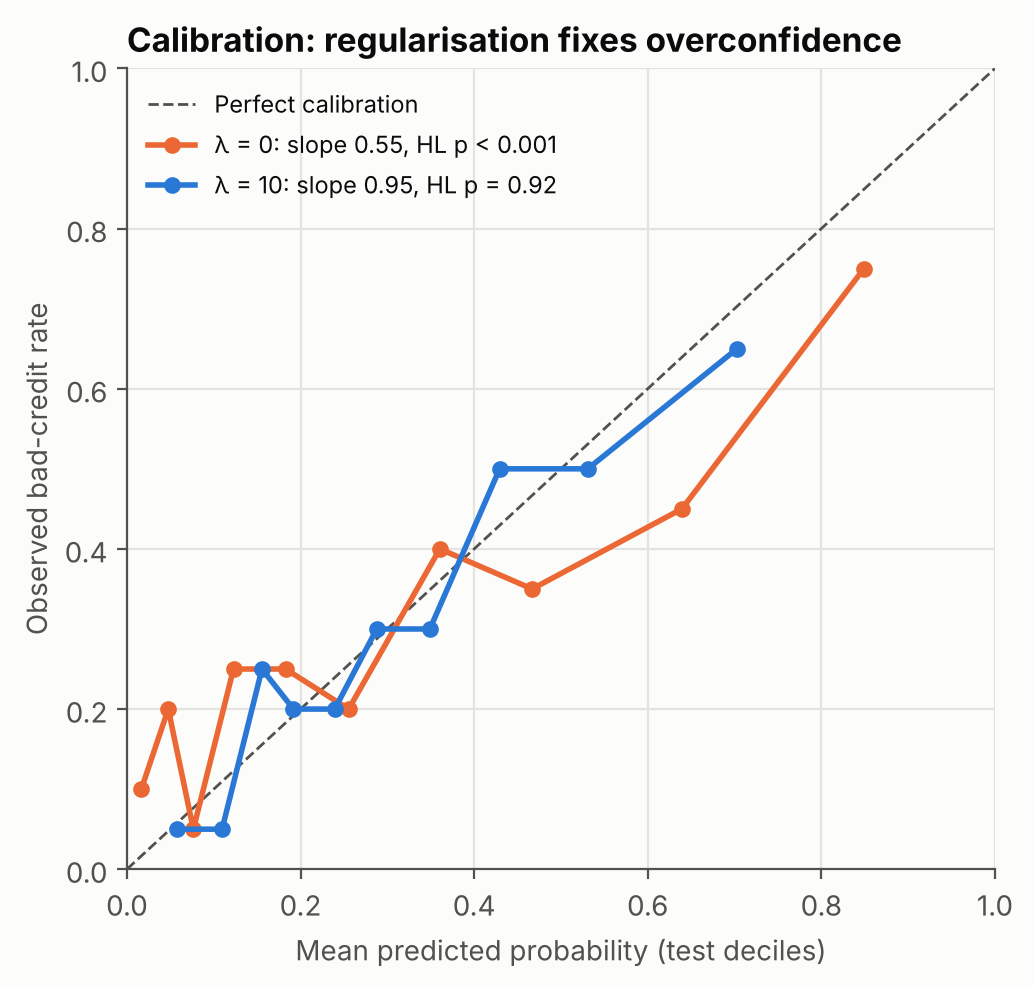
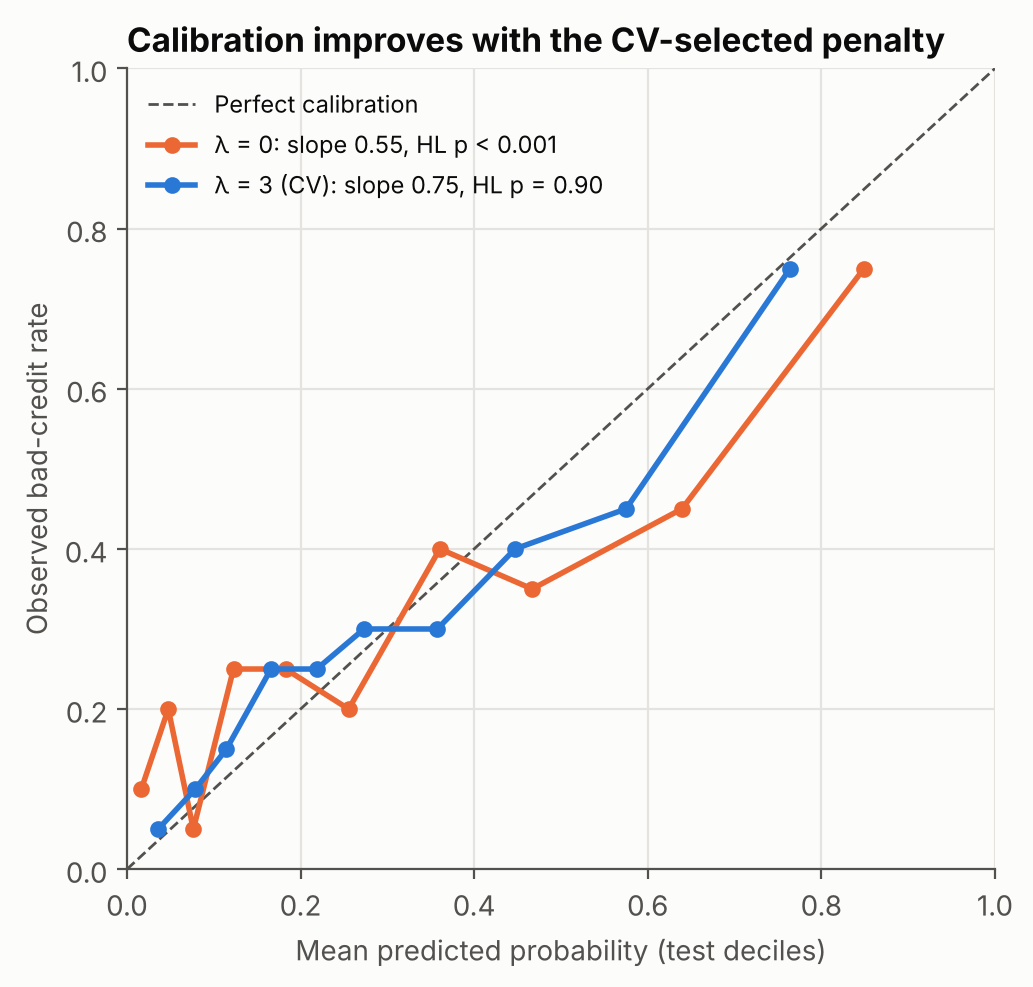
Evaluate calibration and cost thresholds with the CV-selected penalty
Calibration figure and cost-threshold table now compare the unregularised
model with lambda = 3 chosen by 10-fold cross-validation.

Claude-Session: https://claude.ai/code/session_01Ls3hi7doL2q8RU6xsNorrV

diff --git a/run_extended_experiments.py b/run_extended_experiments.py
@@ -589,48 +589,52 @@ def main():
 
     fig, ax = plt.subplots(figsize=(5.6, 5.2))
     ax.plot([0, 1], [0, 1], color=MUTED, lw=1, ls="--", label="Perfect calibration")
-    for lam, colr in ((0, ORANGE), (10, BLUE)):
+    lam_sel = int(best["λ"])
+    for lam, colr in ((0, ORANGE), (lam_sel, BLUE)):
         pt = curves[lam]
         q = pd.qcut(pt, 10, labels=False, duplicates="drop")
         D = pd.DataFrame({"y": yt, "p": pt, "g": q}).groupby("g").mean()
         r = cal.set_index("λ").loc[lam]
         ax.plot(D.p, D.y, color=colr, marker="o", ms=5,
-                label=f"λ = {lam}: slope {r['Calibration slope']:.2f}, HL p " + ("< 0.001" if r['HL p-value'] < 0.001 else f"= {r['HL p-value']:.2f}"))
+                label=f"λ = {lam}{' (CV)' if lam == lam_sel else ''}: slope {r['Calibration slope']:.2f}, HL p " + ("< 0.001" if r['HL p-value'] < 0.001 else f"= {r['HL p-value']:.2f}"))
     ax.set_xlim(0, 1)
     ax.set_ylim(0, 1)
     ax.set_xlabel("Mean predicted probability (test deciles)")
     ax.set_ylabel("Observed bad-credit rate")
-    ax.set_title("Calibration: regularisation fixes overconfidence")
+    ax.set_title("Calibration improves with the CV-selected penalty")
     ax.legend(loc="upper left", fontsize=8.5)
     save(fig, "expJ_calibration.png")
 
+    # cost-based thresholds: compare the unregularised model with the CV-selected one
+    lam_cv = float(best["λ"])
+    p_cv = curves[int(lam_cv)] if int(lam_cv) in curves else sig(At @ newton(A, y, lam=lam_cv, tol=1e-10))
     ts_ = np.linspace(0.01, 0.99, 99)
-    cost = np.array([5 * ((yt == 1) & (p0 < t)).sum() + ((yt == 0) & (p0 >= t)).sum() for t in ts_])
-    def cost_at(t):
-        return int(5 * ((yt == 1) & (p0 < t)).sum() + ((yt == 0) & (p0 >= t)).sum())
-    tbest = ts_[np.argmin(cost)]
-    cost_t = pd.DataFrame([
-        {"Threshold": "1/6 (Bayes, 5:1 costs)", "Cost": cost_at(1 / 6)},
-        {"Threshold": "0.5 (default)", "Cost": cost_at(0.5)},
-        {"Threshold": f"{tbest:.2f} (lowest on test grid)", "Cost": int(cost.min())},
-        {"Threshold": "Refuse everyone", "Cost": int((yt == 0).sum())},
-        {"Threshold": "Approve everyone", "Cost": int(5 * (yt == 1).sum())},
-    ])
+
+    def cost_at(p_, t):
+        return int(5 * ((yt == 1) & (p_ < t)).sum() + ((yt == 0) & (p_ >= t)).sum())
+
+    rows = []
+    for label, p_ in ((f"λ = 0 (unregularised)", p0), (f"λ = {lam_cv:g} (chosen by CV)", p_cv)):
+        c_ = np.array([cost_at(p_, t) for t in ts_])
+        rows.append({"Model": label, "Cost at t = 1/6": cost_at(p_, 1 / 6), "Cost at t = 0.5": cost_at(p_, 0.5),
+                     "Lowest on test grid": int(c_.min()), "at t": round(float(ts_[np.argmin(c_)]), 2),
+                     "Refuse everyone": int((yt == 0).sum()), "Approve everyone": int(5 * (yt == 1).sum())})
+    cost_t = pd.DataFrame(rows)
     table(cost_t, "expJ_cost_thresholds")
-    fig, ax = plt.subplots(figsize=(7.2, 4.2))
-    ax.plot(ts_, cost, color=BLUE)
+
+    fig, ax = plt.subplots(figsize=(7.4, 4.3))
+    for label, p_, colr in ((f"λ = 0 (overconfident)", p0, ORANGE), (f"λ = {lam_cv:g} (CV-selected, calibrated)", p_cv, BLUE)):
+        ax.plot(ts_, [cost_at(p_, t) for t in ts_], color=colr, label=label)
     ax.axhline((yt == 0).sum(), color=MUTED, lw=1, ls=":")
-    ax.text(0.7, (yt == 0).sum() + 4, "refuse everyone", fontsize=8.5, color=MUTED)
-    for t, lab, colr in ((1 / 6, "1/6", ORANGE), (0.5, "0.5", INK)):
-        ax.axvline(t, color=colr, lw=1.2, ls="--")
-        ax.text(t + 0.01, cost.max() * 0.95, f"t = {lab}: cost {cost_at(t)}", color=colr, fontsize=8.5)
-    ax.scatter([tbest], [cost.min()], color=AQUA, zorder=4)
-    ax.annotate(f"lowest cost {cost.min()} at t = {tbest:.2f}", xy=(tbest, cost.min()), xytext=(0.22, 112),
-                color=AQUA, fontsize=8.5, arrowprops=dict(arrowstyle="->", color=AQUA, lw=1))
-    ax.set_ylim(100, cost.max() * 1.08)
+    ax.text(0.98, (yt == 0).sum() + 4, "refuse everyone (140)", fontsize=8.5, color=MUTED, ha="right")
+    for t, lab in ((1 / 6, "t = 1/6 (Bayes, 5:1)"), (0.5, "t = 0.5 (default)")):
+        ax.axvline(t, color=INK, lw=1, ls="--")
+        ax.text(t + 0.01, 292, lab, fontsize=8.5, color=INK)
+    ax.set_ylim(90, 315)
     ax.set_xlabel("Decision threshold t (refuse if predicted PD ≥ t)")
-    ax.set_ylabel("Cost on test set (5 × bad approved + good refused)")
-    ax.set_title("Choosing the lending threshold from the costs of errors")
+    ax.set_ylabel("Test-set cost (5 × bad approved + good refused)")
+    ax.set_title("Cost-based thresholds work once the probabilities are calibrated")
+    ax.legend(loc="lower right", fontsize=8.5)
     save(fig, "expJ_cost_threshold.png")
 
     print("\nAll extended experiments done.")
